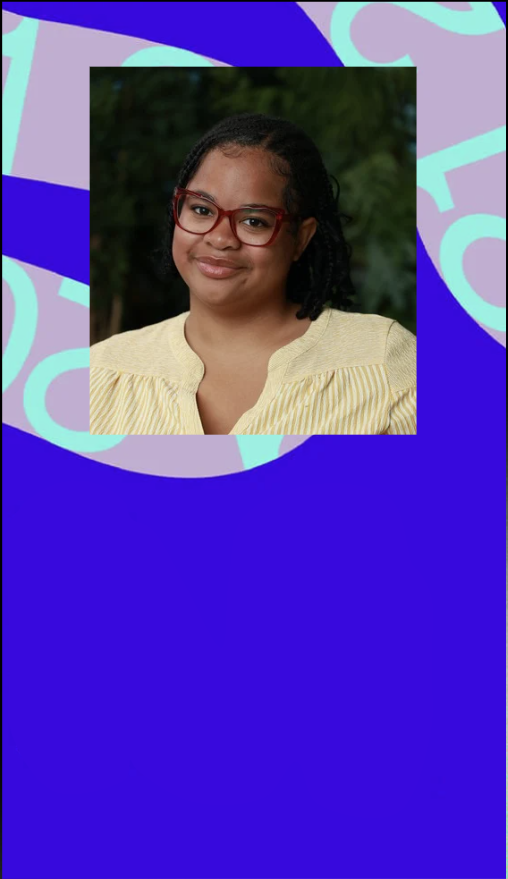
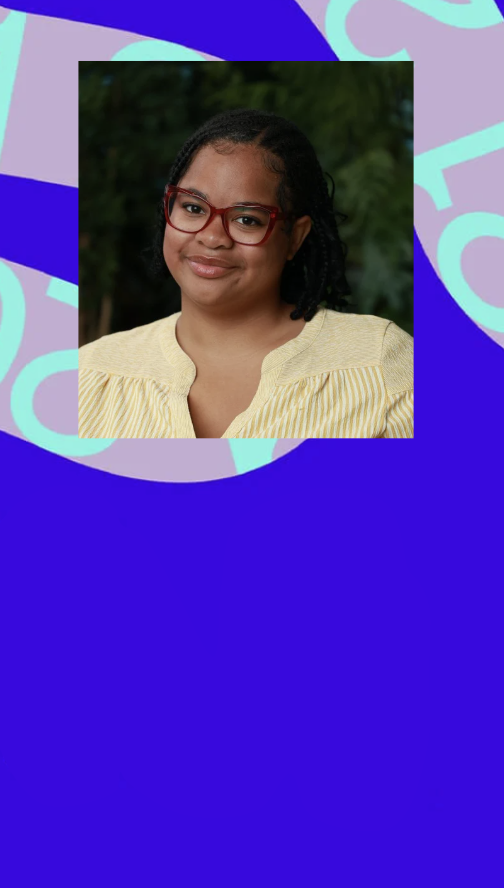
Made content more readable

diff --git a/frontend/src/Components/AboutModal/AboutModal.css b/frontend/src/Components/AboutModal/AboutModal.css
@@ -1,89 +1,82 @@
+/* Backdrop */
 .modal {
   position: fixed;
   top: 0;
   left: 0;
   width: 100vw;
   height: 100vh;
-  background-color: rgba(0, 0, 0, 0.6); 
+  background-color: rgba(0, 0, 0, 0.6);
   display: flex;
   justify-content: center;
   align-items: center;
   z-index: 1000;
 }
 
+/* Modal content */
 .modal-content {
+  background-image: none;
+  background-size: cover;
+  background-position: center;
   width: 90%;
   max-width: 500px;
-  min-height: 700px; /* Try adjusting this incrementally (e.g., 680, 720) */
-  background-size: cover;
-  background-position: 50% 20%; /* Evenly centers image top-to-bottom */
-  border-radius: 12px;
-  padding: 20px 30px;
-  box-shadow: 0 4px 20px rgba(0, 0, 0, 0.2);
+  aspect-ratio: 3 / 4;
+  border-radius: 16px;
+  overflow: hidden;
   position: relative;
   display: flex;
   flex-direction: column;
   justify-content: flex-end;
+  color: white;
+  box-shadow: 0 8px 24px rgba(0, 0, 0, 0.4);
 }
 
-
+/* Close button */
 .modal-header {
   position: absolute;
-  top: 10px;
-  right: 15px;
-  z-index: 2;
+  top: 12px;
+  right: 16px;
+  z-index: 10;
 }
 
 .modal-header button {
-  background: rgba(0,0,0,0.5);
+  background: rgba(0, 0, 0, 0.5);
   border: none;
-  font-size: 1.4rem;
-  cursor: pointer;
+  font-size: 1.25rem;
   color: white;
+  cursor: pointer;
   border-radius: 50%;
-  padding: 5px 10px;
+  width: 36px;
+  height: 36px;
+  line-height: 36px;
+  text-align: center;
 }
 
+/* Content at the bottom */
 .modal-body {
-  position: absolute;
-  bottom: 0;
-  width: 100%;
-  color: white;
-  padding: 20px;
+  background: linear-gradient(to top, rgba(0, 0, 0, 0.8), transparent 80%);
+  padding: 24px;
+  position: relative;
   z-index: 2;
 }
 
+/* Name + facts */
 .details h2 {
-  margin-top: 0;
-  font-size: 3rem;
+  font-size: 2rem;
+  margin-bottom: 12px;
   text-align: center;
-;
-  color: white;
 }
 
 .details p {
-  margin: 10px 0;
-  font-size: 1.5rem;
+  font-size: 1.1rem;
+  margin: 6px 0;
   line-height: 1.5;
 }
 
-.details {
-  position: relative;
-  top: 30px;     /* Move text upward (adjust as needed) */
-  left: -60px;    /* Move text to the left (adjust as needed) */
-  padding: 20px;
-  color: white;   /* Make sure it's visible against the background */
-  text-shadow: 0 0 4px rgba(0,0,0,0.7); 
+.fun-facts strong {
+  color: #8be9fd;
 }
 
-
-@keyframes fadeIn {
-  from {
-    opacity: 0;
-    transform: translateY(10%);
-  }
-  to {
-    opacity: 1;
-    transform: translateY(0);
-  }
+.details{
+  position: relative;
+  top: -45px;
 }

diff --git a/frontend/src/data/aboutData.js b/frontend/src/data/aboutData.js
@@ -6,7 +6,8 @@ const aboutData = [
   {
     id: 1,
     name: "Amari May",
-    role: "University of Virginia",
+    role: "FTL Scholar",
+    school: "University of Virginia",
     image: amari,
     email: "amarimay1213@gmail.com",
     linkedin: "https://www.linkedin.com/in/amari-may-2ba6112b0/",
@@ -22,7 +23,8 @@ const aboutData = [
   {
     id: 2,
     name: "Jessica Obi",
-    role: "Spellman College",
+    role: "FTL Scholar",
+    school: "Spellman College",
     image: jessica,
     email: "",
     linkedin: "https://www.linkedin.com/in/jessica-obi-80a184287/",
@@ -37,16 +39,17 @@ const aboutData = [
   {
     id: 3,
     name: "Kenna Nyuga-Galega",
-    role: "University of Austin Texas",
+    role: "FTL Scholar",
+    school: "University of Texas at Austin",
     image: kenna,
     email: "",
     linkedin: "https://www.linkedin.com/in/knyuga/",
     funFacts: {
       modalImage: kenna,
-      mostListenedSong: "Make No Sense - NBA Youngboy",
-      favoriteGenre: "Afrobeat",
-      topArtist: "NBA Youngboy",
-      topAlubm: "Never Broke Again: The Compilation"
+      mostListenedSong: "",
+      favoriteGenre: "Afrobeats/Amapiano/Makossa, R&B, Worship",
+      topArtist: "Musiq Soulchild",
+      topAlubm: "Luv 4 Rent - Smino"
     }
   }
 ];

diff --git a/frontend/src/data/faqData.js b/frontend/src/data/faqData.js
@@ -19,10 +19,6 @@ const faqData = [
         answer: "Yes, Promptify is completely free to use. You can create and enjoy personalized playlists without any cost. However, you will need a Spotify account to access your music library and use Promptify's features."
     },
     {
-        question: "Is my data secure?",
-        answer: "tbd"
-    },
-    {
         question: "Why Promptify?",
         answer: "Promptify is a unique platform that leverages AI to enhance your Spotify experience. By analyzing your listening habits, it creates playlists that truly resonate with your mood and preferences, making music discovery more personal and enjoyable. Whether you're looking for a chill vibe or an energetic boost, Promptify has you covered with tailored playlists that evolve with your musical tastes."
     }, 

diff --git a/frontend/src/Pages/AboutPage/AboutPage.css b/frontend/src/Pages/AboutPage/AboutPage.css
@@ -29,15 +29,18 @@
 
 img.card-bg {
   width: 100%;
-  height: auto;
-  display: block;
+  height: 410px; 
   object-fit: cover;
+  object-position: top; 
+  display: block;
   filter: brightness(0.9);
 }
 
+
+
 .card-content {
   position: absolute;
-  top: 250px;
+  top: 225px;
   z-index: 2;
   color: white;
   width: 100%;
@@ -45,16 +48,17 @@ img.card-bg {
   text-align: center;
   font-size: 1rem;
   line-height: 1.6;
+  text-shadow: 0 0 4px rgba(0,0,0,0.7);
 }
 
 .card-content h3 {
-  font-size: 1.5rem;
+  font-size: 1.25rem;
   font-weight: 600;
   margin: 0;
 }
 
 .card-content p {
-  font-size: 1.2rem;
+  font-size: 1rem;
   color: #ccc;
   margin: 5px 0;
 }

diff --git a/frontend/src/Pages/AboutPage/AboutPage.jsx b/frontend/src/Pages/AboutPage/AboutPage.jsx
@@ -43,6 +43,7 @@ return (
     <div className="card-content">
       <h3>{person.name}</h3>
       <p>{person.role}</p>
+      <p>{person.school}</p>
       <p>{person.email}</p>
       <a href={person.linkedin} >
         LinkedIn
